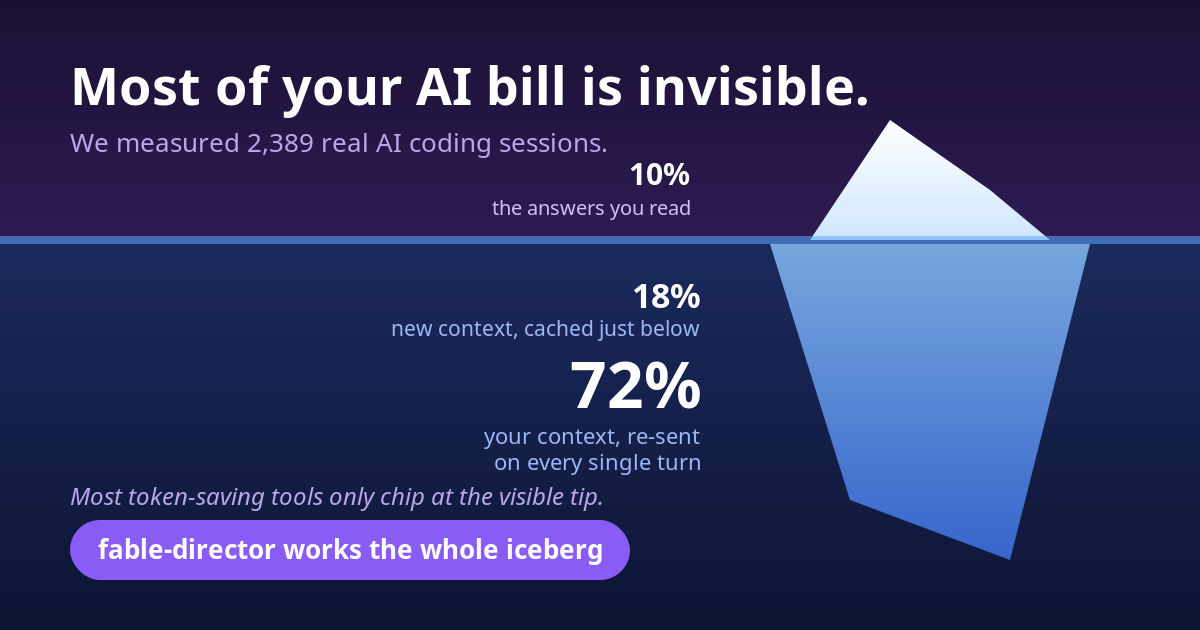
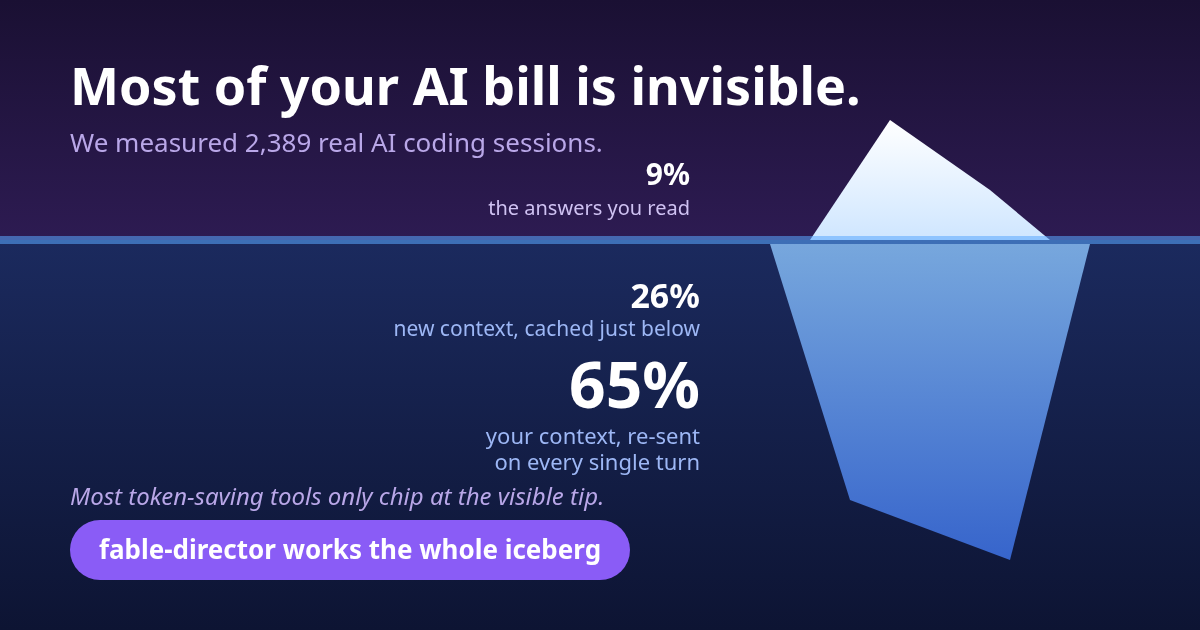
fix: count cold resumes as cache resets, price session eq per model, repriced figures
- cache_resets: a main turn that rewrites >=80% of the previous context and
  re-reads <50% of it is a reset (the ~26k global prefix keeps cache_read
  above 0 on cold resumes); once per message.id
- session_summary eq uses cache_read_by_model, workflow agents included
- kernel 5.7x -> 6.3x and README card 65/26/9: August audit with main-thread
  writes at their 1h 2x price
- release.sh skips .claude-plugin/types when copying into the caches
- ONBOARDING: one-command install first, two commands as fallback

diff --git a/fable-director/scripts/fd-telemetry.py b/fable-director/scripts/fd-telemetry.py
@@ -424,6 +424,14 @@ def find_usage(obj, in_subagent=False, model=None):
 
 
 CACHE_RESET_THRESHOLD = 10_000  # cache_read "alto" prima di un reset sospetto
+# Il prefisso globale del system prompt (~26k) resta in cache anche quando la
+# conversazione scade: una ripresa a cache fredda legge ~26k, non 0. Reset =
+# anche il turno che riscrive quasi tutto il contesto del turno prima e ne
+# rilegge meno della meta' (misurato: master 15/10, 25.893 letti e 196.460
+# riscritti su 221.928; 1 turno su 973 della sessione). Un tool output grosso
+# riscrive tanto ma rilegge tutto il contesto: non e' un reset.
+CACHE_RESET_REWRITE = 0.8
+CACHE_RESET_REREAD = 0.5
 # Claude Code >= 2.1.299 compatta una conversazione da 200k+ token ferma da
 # ~54 minuti, prima che scada la cache da un'ora (`"idleCompaction": false` la
 # spegne, CLAUDE_CODE_IDLE_COMPACT_MIN_TOKENS sposta la soglia). Il record e'
@@ -557,6 +565,8 @@ def sum_transcript(path):
     n_records = n_usage_recs = 0
     cache_resets = 0
     had_high_read = False
+    prev_ctx = 0            # contesto del turno main precedente (read+write+input)
+    last_main_mid = None    # message.id dell'ultimo turno main valutato
     idle_compactions = 0
     last_activity = None    # ultimo turno vero (user o assistant) con timestamp
     after_idle_compact = False  # il prossimo turno main e' la ripresa
@@ -603,6 +613,7 @@ def sum_transcript(path):
                 last_ts = ts
             rtype = rec.get("type")
             if rtype == "system" and rec.get("subtype") == "compact_boundary":
+                prev_ctx = 0  # dopo la compattazione il contesto e' un altro
                 if ts and last_activity and \
                         (ts - last_activity).total_seconds() >= IDLE_COMPACT_GAP_S:
                     idle_compactions += 1
@@ -658,13 +669,26 @@ def sum_transcript(path):
                     n_sub += 1
                 else:
                     turns += 1
+                    # Un messaggio spezzato su piu' righe ripete lo stesso
+                    # usage: il reset si valuta una volta per message.id.
+                    mid = (rec.get("message") or {}).get("id")
+                    if mid and mid == last_main_mid:
+                        continue
+                    last_main_mid = mid
                     cr = usage.get("cache_read_input_tokens") or 0
-                    if cr == 0 and had_high_read:
+                    cc = usage.get("cache_creation_input_tokens") or 0
+                    rewrote = (prev_ctx > CACHE_RESET_THRESHOLD
+                               and cc >= CACHE_RESET_REWRITE * prev_ctx
+                               and cr < CACHE_RESET_REREAD * prev_ctx)
+                    if had_high_read and (cr == 0 or rewrote):
                         if not after_idle_compact:  # quella ripresa e' gia' contata a parte
                             cache_resets += 1
-                        had_high_read = False
+                        had_high_read = cr > CACHE_RESET_THRESHOLD
                     elif cr > CACHE_RESET_THRESHOLD:
                         had_high_read = True
+                    ctx = cr + cc + (usage.get("input_tokens") or 0)
+                    if ctx:
+                        prev_ctx = ctx
                     after_idle_compact = False
             if rec_had_usage:
                 n_usage_recs += 1
@@ -1854,6 +1878,13 @@ def cmd_session_summary(args):
         sub_tot[k] += wf_tot[k]
     sub_tot[CC_1H_KEY] = sub_tot.get(CC_1H_KEY, 0) + wf_tot.get(CC_1H_KEY, 0)
     n_sub += n_wf
+    # Ogni quota di cache_read alla tariffa del SUO modello, agenti Workflow
+    # compresi: senza, l'eq della sessione applicava a tutto la tariffa base.
+    crm = dict(stats.get("cache_read_by_model") or {})
+    for k, v in (wf_tot.get("cache_read_by_model") or {}).items():
+        crm[k] = crm.get(k, 0) + v
+    if crm:
+        stats["cache_read_by_model"] = crm
     # Sentinella di schema: molti record validi ma zero usage o zero timestamp
     # riconosciuti = formato transcript cambiato → la summary conterebbe zeri
     # in silenzio. Logga l'anomalia (rumore nel report) e avvisa su stderr.
@@ -1898,7 +1929,8 @@ def cmd_session_summary(args):
     payload.update(stats)
     payload.update(derived_metrics(inp, out, cr, cc,
                                    main_tot["output_tokens"],
-                                   sub_tot["output_tokens"], n_sub, cc_1h=cc1h))
+                                   sub_tot["output_tokens"], n_sub,
+                                   cr_by_model=crm or None, cc_1h=cc1h))
     log_event("session_summary", payload, session_id=session_id, cwd=cwd)
 
 

diff --git a/tests/idle-compaction-verify.py b/tests/idle-compaction-verify.py
@@ -12,6 +12,10 @@ parte e la ripresa che segue non finisce fra i `cache_resets`.
   I2 compattazione normale (pausa di 2 min): idle 0, il reset dopo resta un reset
   I3 ripresa dopo piu' di un'ora senza compattazione: un cache reset, idle 0
   I4 session-summary: idle_compactions nel payload
+  I5 ripresa a cache fredda con il prefisso globale ancora in cache (caso reale
+     master 15/10: 25.893 letti, 196.460 riscritti): un reset
+  I6 tool output grosso (riscrive tanto ma rilegge tutto il contesto): nessun reset
+  I7 come I5 con il messaggio della ripresa spezzato su tre righe: sempre un reset
 
 Usage: python3 tests/idle-compaction-verify.py   (exit 0 = all green)
 """
@@ -91,6 +95,34 @@ _, _, _, resets3, *_, stats3 = fdt.sum_transcript(t3)
 check("I3 ripresa a cache fredda senza compattazione: un reset, idle 0",
       stats3.get("idle_compactions") == 0 and resets3 == 1,
       f"idle={stats3.get('idle_compactions')} resets={resets3}")
+
+# I5 — caso reale: master 15/10 alle 10:04, cache globale del system prompt
+# ancora calda (~26k letti), tutto il resto riscritto
+t5 = write([prompt("2030-01-01T06:30:00Z"), turn("2030-01-01T06:32:55Z", "m1", 215740, 2679),
+            prompt("2030-01-01T06:35:00Z"), turn("2030-01-01T06:35:23Z", "m2", 218419, 1567),
+            prompt("2030-01-01T06:43:00Z"), turn("2030-01-01T06:43:19Z", "m3", 219986, 1940),
+            prompt("2030-01-01T08:04:00Z"), turn("2030-01-01T08:04:30Z", "m4", 25893, 196460),
+            prompt("2030-01-01T08:58:00Z"), turn("2030-01-01T08:58:03Z", "m5", 222353, 5433)])
+_, _, _, resets5, *_ = fdt.sum_transcript(t5)
+check("I5 ripresa a cache fredda con prefisso globale caldo: un reset",
+      resets5 == 1, f"resets={resets5}")
+
+# I6 — un tool output da 150k: riscrittura grande, ma il contesto e' riletto
+t6 = write(head + [prompt("2030-01-01T10:06:00Z"), turn("2030-01-01T10:06:10Z", "m3", 300500, 150000),
+                   prompt("2030-01-01T10:07:00Z"), turn("2030-01-01T10:07:10Z", "m4", 450500, 800)])
+_, _, _, resets6, *_ = fdt.sum_transcript(t6)
+check("I6 tool output grosso con contesto riletto: nessun reset",
+      resets6 == 0, f"resets={resets6}")
+
+# I7 — Claude Code scrive un messaggio su piu' righe con lo stesso id e usage
+t7 = write([prompt("2030-01-01T06:30:00Z"), turn("2030-01-01T06:32:55Z", "m1", 215740, 2679),
+            prompt("2030-01-01T06:43:00Z"), turn("2030-01-01T06:43:19Z", "m3", 219986, 1940),
+            prompt("2030-01-01T08:04:00Z")]
+           + [turn("2030-01-01T08:04:30Z", "m4", 25893, 196460)] * 3
+           + [prompt("2030-01-01T08:58:00Z"), turn("2030-01-01T08:58:03Z", "m5", 222353, 5433)])
+_, _, _, resets7, *_ = fdt.sum_transcript(t7)
+check("I7 ripresa spezzata su tre righe: un reset solo",
+      resets7 == 1, f"resets={resets7}")
 
 # I4 — il payload della session-summary porta il conteggio
 home = Path(tempfile.mkdtemp(prefix="fd-idle-home-"))

diff --git a/tests/eq-accounting-verify.py b/tests/eq-accounting-verify.py
@@ -21,6 +21,7 @@ Runs the REAL scripts against a throwaway HOME:
   E8 scritture in cache da un'ora a 2×, da cinque minuti o non divise a 1,25×
   E9 stop hook: state accumula cc1h (main + agenti workflow), eq del budget a 2×
   E10 session-summary: cache_creation_1h nel payload, eq a 2× su quella quota
+  E13 session-summary: eq con la tariffa cache_read di ogni modello (Workflow compresi)
   E11 budget-close: eq dallo state con cc1h
   E12 subagent-meter: eq dell'agente con la quota da un'ora
 
@@ -310,6 +311,38 @@ eq12 = sam.eq_of(model12, tot12)
 exp12 = int(10 * 1.0 + 10 * 5.0 + 1000 * 0.05 + 100 * 2.0)
 check("E12 subagent-meter: eq con la quota da un'ora e la tariffa del modello",
       eq12 == exp12, f"got {eq12} want {exp12} tot={tot12}")
+
+# E13 — session-summary: cache_read di ogni modello alla SUA tariffa, agenti
+# Workflow compresi (prima l'eq usava la tariffa base per tutto)
+home13 = Path(tempfile.mkdtemp(prefix="fd-eq-home13-"))
+proj13 = tempfile.mkdtemp(prefix="fd-eq-proj13-")
+tr13 = Path(tempfile.mkdtemp()) / "sess.jsonl"
+tr13.write_text(split_line(out=100, inp=100, cr=200000, cc=500, cc1h=500,
+                           model="claude-fable-5-1", mid="m1"))
+adir13 = tr13.with_suffix("") / "subagents" / "workflows" / "wf_a"
+adir13.mkdir(parents=True)
+(adir13 / "agent-a1.jsonl").write_text(
+    split_line(out=10, inp=10, cr=50000, model="claude-sonnet-5-5", mid="w1",
+               ts="2030-01-01T10:01:00Z"))
+r13 = run(SCRIPTS / "fd-telemetry.py", ["session-summary"], home13,
+          stdin=json.dumps({"cwd": proj13, "transcript_path": str(tr13),
+                            "session_id": "eq-bymodel-sess"}))
+p13 = {}
+db13 = home13 / ".claude" / "fable-director" / "telemetry.db"
+if db13.is_file():
+    con = sqlite3.connect(db13)
+    row = con.execute("SELECT payload FROM events WHERE event='session_summary'"
+                      " ORDER BY ts DESC LIMIT 1").fetchone()
+    con.close()
+    p13 = json.loads(row[0]) if row else {}
+crm13 = {"claude-fable-5-1": 200000, "claude-sonnet-5-5": 50000}
+exp13 = mod.eq_tokens(110, 110, 250000, 500, cr_by_model=crm13, cc_1h=500)
+base13 = mod.eq_tokens(110, 110, 250000, 500, cc_1h=500)
+check("E13 session-summary: eq con cache_read_by_model (main + Workflow)",
+      p13.get("eq_tokens") == exp13 and exp13 != base13
+      and p13.get("cache_read_by_model") == crm13,
+      f"eq={p13.get('eq_tokens')} want {exp13} (base {base13}) "
+      f"crm={p13.get('cache_read_by_model')} err={r13.stderr[:160]}")
 
 print(f"\n{len(passed)} passed, {len(failed)} failed")
 sys.exit(1 if failed else 0)

diff --git a/fable-director/kernel.md b/fable-director/kernel.md
@@ -6,7 +6,7 @@ Route by six axes, earlier overrides later:
 3. Determinism — core doable by code? → script.
 4. Cardinality — N similar items? → workflow, mid-model grouped ~10-15, JSON schema in the contract; executor: agent `fd-executor` (effort pinned low, stays on sonnet — Fable 5.1 low measured: same eq and correctness, 5.5× USD); fan-out 1+(N-1): one canary verified rung-1 BEFORE the rest. Workflows: size the fan-out to the five-hour window (the gate computes it from `--agents N`), `model:`/`effort:` per stage (top model only for judgment), resume replays only the unchanged prefix (args as object, script edits after the cached calls), launch from a lean session. Single item → inline. Non-quality-sensitive items may take the free external route (`external-exec.py`, separate ledger; paid providers only with explicit consent) — PROPOSE it, the skill has the rules.
 5. Verifiability — objective test? → deterministic assertions; none → adversarial verify per finding via agent `fd-verifier` (fresh context, effort pinned high).
-6. Cache locality — a FRESH subagent pays a COLD START (its own prefix; siblings launched in one message share it and pay about half); a FORK inherits conversation + prompt cache and re-pays the whole parent context every turn on the parent's model, nearly invisible to the 2×/3× gate. Its parity point scales inversely with the parent model's `cache_read` in `model-economics.json`: measured ~7-12 turns at 0.025×, ~2 at 0.1× (~150k context); other rates are extrapolations. Fork = zero spec-writing for short, context-heavy work; batch/spec-able work stays on fresh pinned executors. Measured on 2,389 sessions: a main-thread turn costs ~5.7× a subagent turn WITH the cold start included — the veto only bites when delegation ADDS main-thread turns; cost/turn grows ~quadratically with session length (13.8k → 50k eq), so late in a long session lean toward delegating and batching. Never overrides axes 1-2.
+6. Cache locality — a FRESH subagent pays a COLD START (its own prefix; siblings launched in one message share it and pay about half); a FORK inherits conversation + prompt cache and re-pays the whole parent context every turn on the parent's model, nearly invisible to the 2×/3× gate. Its parity point scales inversely with the parent model's `cache_read` in `model-economics.json`: measured ~7-12 turns at 0.025×, ~2 at 0.1× (~150k context); other rates are extrapolations. Fork = zero spec-writing for short, context-heavy work; batch/spec-able work stays on fresh pinned executors. Measured on 2,389 sessions: a main-thread turn costs ~6.3× a subagent turn WITH the cold start included — the veto only bites when delegation ADDS main-thread turns; cost/turn grows ~quadratically with session length (13.8k → 50k eq), so late in a long session lean toward delegating and batching. Never overrides axes 1-2.
 
 Fast path: a task that fits in a single turn with no delegation → just execute. Zero budget, zero ritual: the policy must never cost more than the task it governs.
 

diff --git a/CHANGELOG.md b/CHANGELOG.md
@@ -4,6 +4,13 @@ Full release history. The README shows only the latest few entries.
 
 ## 1.58.x
 
+- **1.58.1 — cold resumes counted, measured numbers updated.**
+  - **Cache resets seen again.** The global system-prompt cache (~26k) stays warm when a conversation's cache expires, so a cold resume never read 0 and was missed. A turn that rewrites nearly all of the previous context and re-reads less than half of it now counts as a reset; a big tool output does not.
+  - **Session eq at each model's read price.** The session summary prices every share of cache reads at its own model's rate, workflow agents included.
+  - **Measured figures repriced** with main-thread writes at their 1-hour price: a main-thread turn costs ~6.3× a subagent turn (was 5.7×); the README card now reads 65% re-sent, 26% new context cached, 9% answers.
+  - **Release no longer copies stale mod types** into the plugin cache.
+  - **ONBOARDING shows the one-command install** first, the two commands as fallback.
+
 - **1.58.0 — counts and prices follow the new Claude Code.** Changes from Claude Code 2.1.291-2.1.301.
   - **Tool counts no longer double.** From 2.1.300 transcripts copy every API request (`api-request`, `api-request-blob`, `api-request-shape`): rework, churn, tool counts and the grinding warning skip those copies, so two real Bash failures stay two.
   - **Cache writes at their real price.** One-hour writes count 2× input, five-minute writes 1.25×, read record by record: the main thread writes for one hour, subagents for five minutes. Session, budget, agent and report figures in eq no longer understate the main thread. Sonnet 5.5 cache reads count 0.05×, its new price.

diff --git a/README.md b/README.md
@@ -1,6 +1,6 @@
 # 🎬 fable-director
 
-![version](https://img.shields.io/badge/version-1.58.0-blue) ![license](https://img.shields.io/badge/license-MIT-green) ![Claude Code](https://img.shields.io/badge/Claude%20Code-plugin-8A5CF6)
+![version](https://img.shields.io/badge/version-1.58.1-blue) ![license](https://img.shields.io/badge/license-MIT-green) ![Claude Code](https://img.shields.io/badge/Claude%20Code-plugin-8A5CF6)
 
 **Keeps Claude Code from spending your quota on work the top model didn't need
 to do.** It makes your agent declare what a job should cost before it delegates,
@@ -75,7 +75,7 @@ post-mortem is written. A small quick task skips all of this.
 
 ## How much does it save?
 
-![Most of your AI bill is invisible: measured on 2,389 real sessions, only 10% is the answers you read — 18% is new context being cached, and 72% is your context re-sent on every single turn. fable-director measures all of it.](assets/readme/card1-iceberg.png)
+![Most of your AI bill is invisible: measured on 2,389 real sessions, only 9% is the answers you read — 26% is new context being cached, and 65% is your context re-sent on every single turn. fable-director measures all of it.](assets/readme/card1-iceberg.png)
 
 **The honest one-sentence answer:** it doesn't save tokens on every task — it
 makes spend predictable, verified and disciplined; on read-heavy loads the

diff --git a/ONBOARDING.md b/ONBOARDING.md
@@ -1,6 +1,13 @@
 # Fable-director — team onboarding (auto-updating install)
 
-## Standard route (from 1.17.0 — two commands, zero maintenance)
+## Standard route (one command, zero maintenance)
+
+```bash
+claude plugin install fable-director --marketplace frsorrentino/fable-director
+```
+
+One command on Claude Code 2.1.292 or newer: it adds the marketplace if it is
+not there yet. On an older Claude Code, two commands:
 
 ```bash
 claude plugin marketplace add frsorrentino/fable-director
@@ -55,8 +62,10 @@ leaves them alone by design (they are the development route). Migrate once:
 
 ```bash
 claude plugin uninstall fable-director
-claude plugin marketplace add frsorrentino/fable-director
-claude plugin install fable-director@fsorrentino --scope user
+claude plugin install fable-director --marketplace frsorrentino/fable-director
 ```
+
+On Claude Code older than 2.1.292, replace the second line with the two commands
+of the standard route.
 
 Auto-update then self-enables at the first session, as above.
